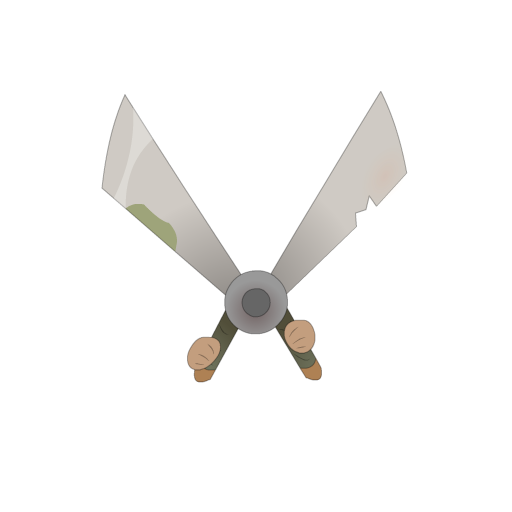
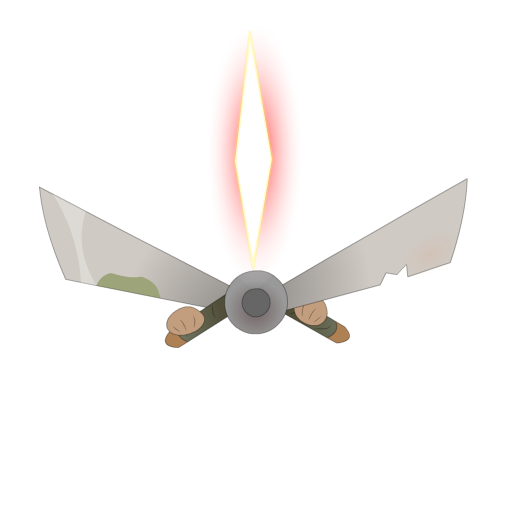
2D anim and menu tweak

Changed region(s): [[0.0625, 0.0625, 0.9375, 0.75]]

diff --git a/GlobalGameJam/Assets/src/Entities/Player.cs b/GlobalGameJam/Assets/src/Entities/Player.cs
@@ -90,11 +90,13 @@ public class Player : MonoBehaviour
     private void OnOffBeat()
     {
         transform.DOPunchScale(Vector3.one * playerPunchScalePower, playerPunchScaleDuration);
-        scissorsAnimator.Play("DashIdle");
+        scissorsAnimator.Play("IdleDash");
     }
 
     private void Dash()
     {
+        transform.DOPunchScale(Vector3.one * playerPunchScalePower, playerPunchScaleDuration);
+        
         var position = transform.position;
         var direction = target.position - position;
 
@@ -116,7 +118,7 @@ public class Player : MonoBehaviour
 
     IEnumerator DashCoroutine(Vector3 from, Vector3 direction)
     {
-        scissorsAnimator.Play("WeaponSlash");
+        //scissorsAnimator.Play("WeaponSlash");
         
         var targetPosition = from + direction;
 

diff --git a/GlobalGameJam/Assets/src/Managers/GameManager.cs b/GlobalGameJam/Assets/src/Managers/GameManager.cs
@@ -35,6 +35,7 @@ public class GameManager : MonoBehaviour
     void Start()
     {
         scoreTxt.text = _score.ToString();
+        GameOn();
     }
 
     #region UI utilities
